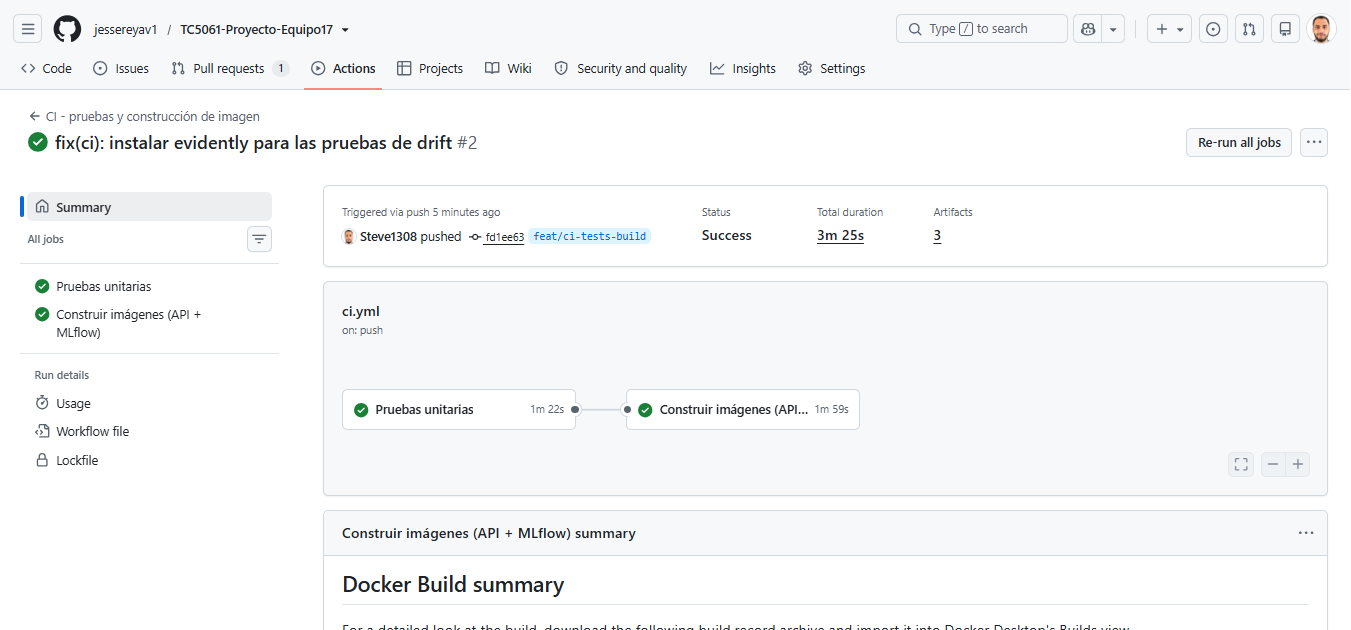
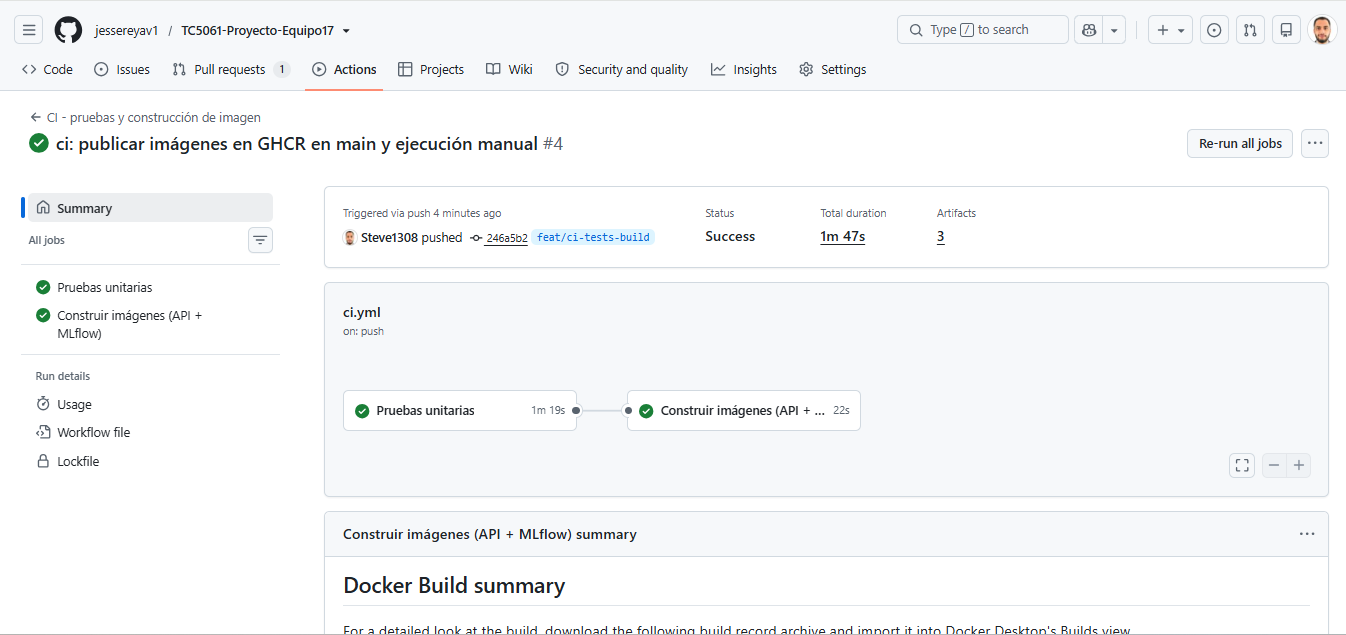
ci: resumen del run y matriz de construcción de imágenes

diff --git a/README.md b/README.md
@@ -928,10 +928,10 @@ El workflow `.github/workflows/ci.yml` automatiza la verificación del proyecto 
 
 | Job | Qué hace |
 |---|---|
-| `tests` | Instala `requirements-test.txt` con Python 3.10 y ejecuta `python -m pytest tests -v`. Genera `reports/junit.xml` y lo publica como artifact `junit-results`, incluso si las pruebas fallan. |
-| `build` | Depende de `tests` (`needs: tests`). Valida `docker-compose.yml` con `docker compose config -q` y construye las imágenes `mibici-p2-api` (desde `Containerfile`) y `mibici-p2-mlflow` (desde `Containerfile.mlflow`). En `push` a `main` o en ejecuciones manuales las publica en GitHub Container Registry; en `pull_request` o en `push` a la rama de trabajo solo construye (`push: false`). Usa la caché de GitHub Actions con scopes separados por imagen. |
+| `tests` | Instala `requirements-test.txt` con Python 3.10 y ejecuta `python -m pytest tests -v`. Genera `reports/junit.xml` y lo publica como artifact `junit-results`, incluso si las pruebas fallan. Además escribe un resumen en `$GITHUB_STEP_SUMMARY` con el commit, el estado del job y el artifact. |
+| `build` | Se ejecuta como matriz de dos jobs (`Construir imagen mibici-p2-api` y `Construir imagen mibici-p2-mlflow`), ambos con `needs: tests`. Cada uno valida `docker-compose.yml` con `docker compose config -q`, construye su imagen desde el `Containerfile` correspondiente y escribe su resumen con el Dockerfile y los tags publicados. En `push` a `main` o en ejecuciones manuales publica en GitHub Container Registry; en `pull_request` o en `push` a la rama de trabajo solo construye (`push: false`). Usa caché de GitHub Actions con scopes separados (`api` y `mlflow`) y `fail-fast: false`. |
 
-Si falla cualquier prueba, el job `build` no corre: primero se valida el código y después se construyen las imágenes.
+Si falla cualquier prueba, los jobs `build` no corren: primero se valida el código y después se construyen las imágenes.
 
 #### Publicación en GitHub Container Registry
 
@@ -940,7 +940,13 @@ Si falla cualquier prueba, el job `build` no corre: primero se valida el código
 - Las imágenes publicadas son:
   - `ghcr.io/jessereyav1/mibici-p2-api:latest` y `ghcr.io/jessereyav1/mibici-p2-api:<sha>`
   - `ghcr.io/jessereyav1/mibici-p2-mlflow:latest` y `ghcr.io/jessereyav1/mibici-p2-mlflow:<sha>`
-- Se pueden consultar en la pestaña **Packages** del repositorio.
+- Se pueden consultar en la pestaña **Packages** del repositorio. Un `push` a una rama distinta de `main` solo construye: para ver los paquetes antes del merge hay que usar **Run workflow**.
+
+#### Resumen y optimizaciones
+
+- Los pasos de resumen usan `if: always()`, así que el informe aparece incluso si una etapa falla.
+- La matriz construye ambas imágenes en paralelo; `fail-fast: false` evita que un fallo en una cancele la otra.
+- Cada job de la matriz genera su propio resumen dentro de la pestaña del run.
 
 ### 16.2. Reproducirlo en local
 
@@ -956,7 +962,7 @@ No se ejecuta `docker compose up` en CI: en 15.7 se explica que el registro nece
 
 ### 16.3. Evidencia
 
-El resultado se consulta en la pestaña **Actions** del repositorio. La captura muestra el run con `Pruebas unitarias` y `Construir imágenes (API + MLflow)` en verde y el artifact `junit-results` disponible. Los paquetes publicados se verifican en la pestaña **Packages**.
+El resultado se consulta en la pestaña **Actions** del repositorio. La captura muestra el run con `Pruebas unitarias` y los dos jobs de la matriz en verde, el artifact `junit-results` disponible y los resúmenes de pruebas e imágenes. Los paquetes publicados se verifican en la pestaña **Packages**.
 
 ![Workflow de CI con pruebas y builds en verde](docs/evidencia_ci.png)
 
